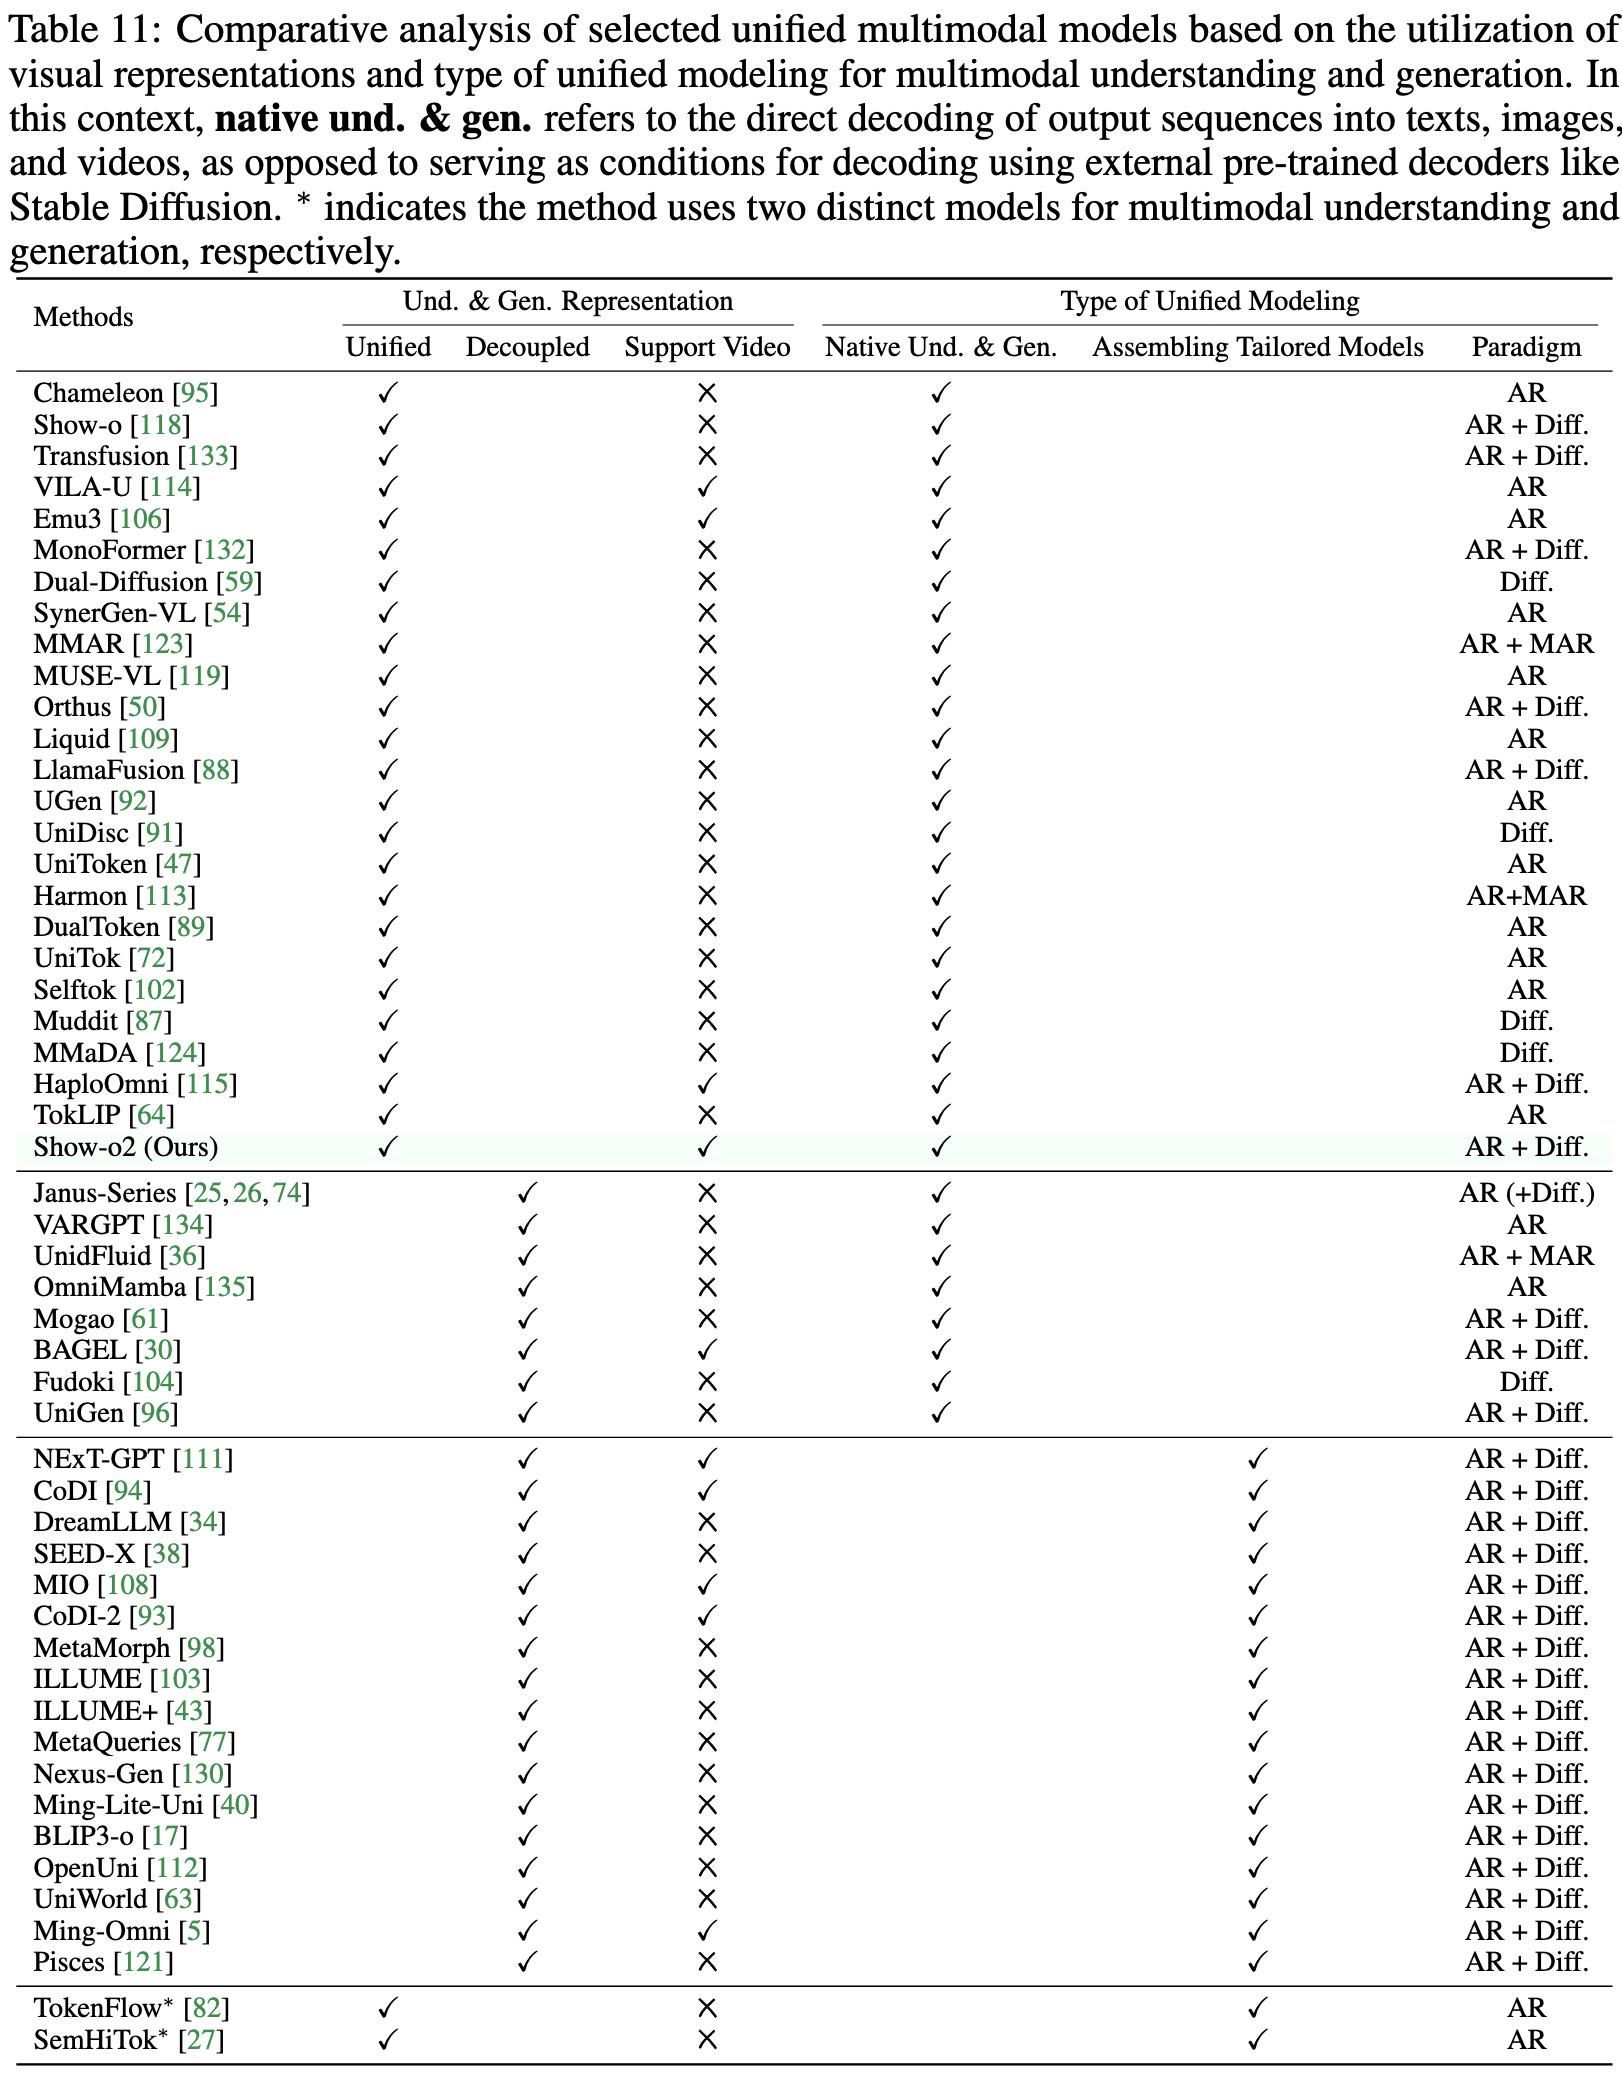
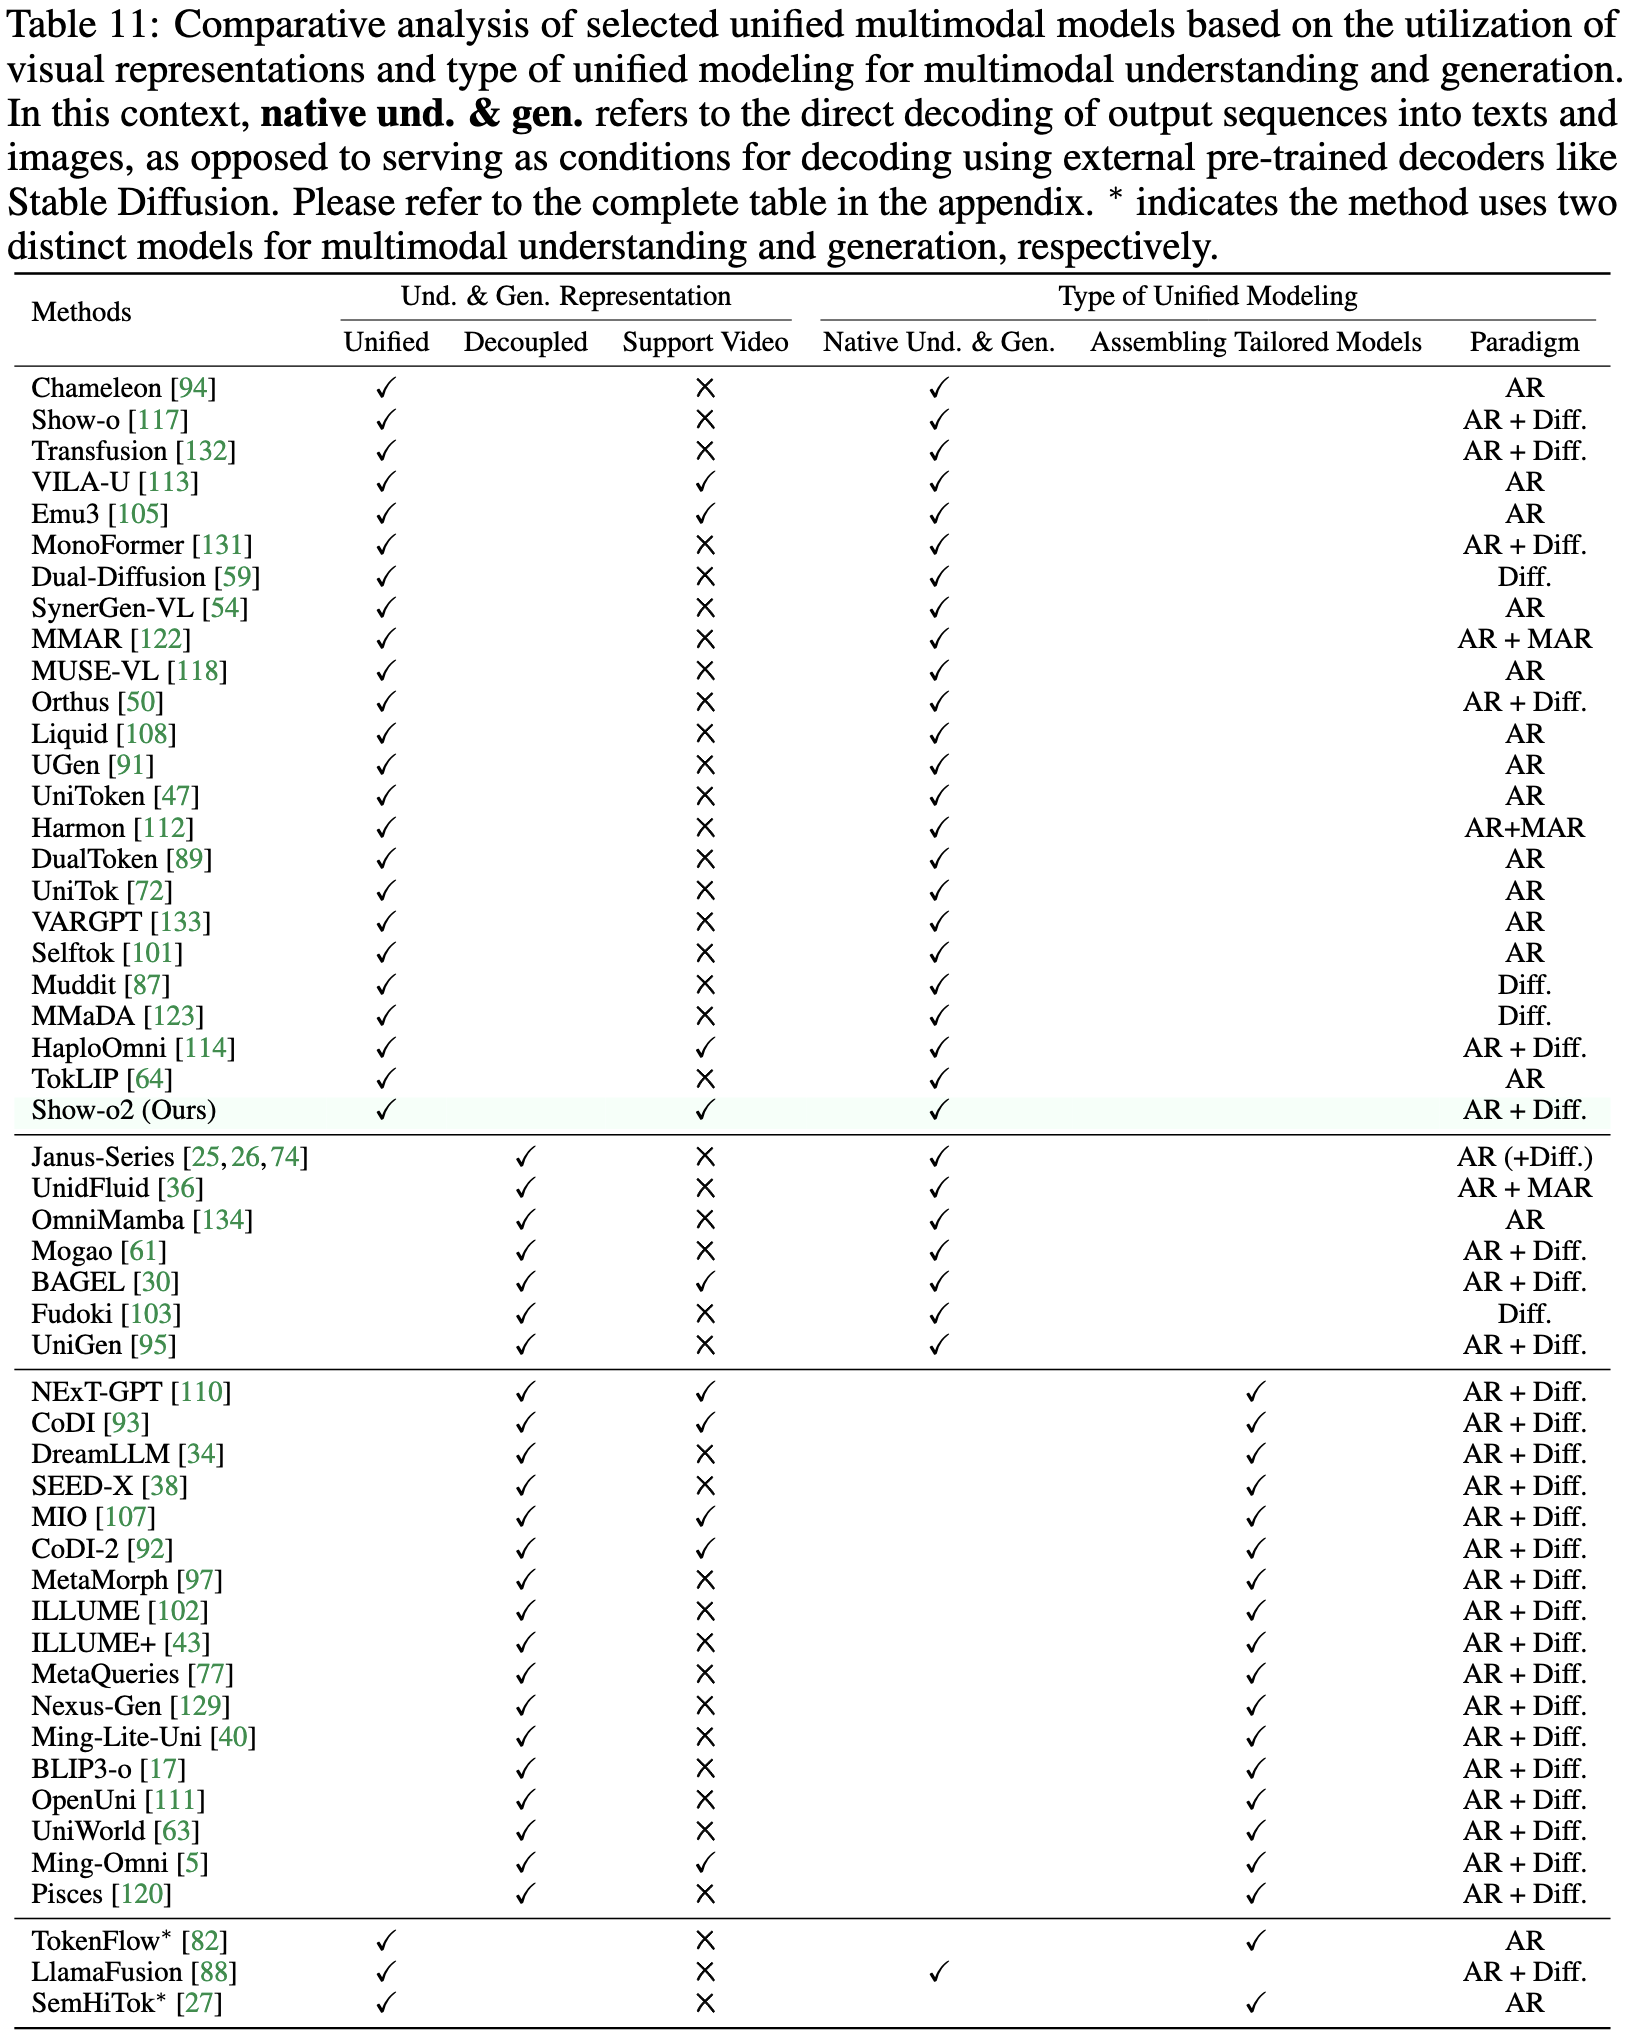
release show-o2 models

Changed region(s): [[0.0, 0.0, 1.0, 1.0], [0.3083, 0.5553, 0.3391, 0.9564]]

diff --git a/README.md b/README.md
@@ -1,6 +1,6 @@
 <div align="center">
 <br>
-<img src="docs/showo_series.png" width="280">
+<img src="docs/showo_title.png" width="200">
 <h3>One Single Transformer to Unify Multimodal Understanding and Generation</h3>
 
 [Jinheng Xie](https://sierkinhane.github.io/)<sup>1&#42;</sup>&nbsp;
@@ -17,12 +17,32 @@ Zhijie Chen<sup>2</sup>&nbsp;
 
 <sup>1</sup> [Show Lab](https://sites.google.com/view/showlab/home?authuser=0), National University of Singapore&nbsp; <sup>2</sup> Bytedance&nbsp;
  
-[![ArXiv](https://img.shields.io/badge/ICLR-<OpenReview>-<COLOR>.svg)](https://openreview.net/pdf?id=o6Ynz6OIQ6) [![ArXiv](https://img.shields.io/badge/Showo-<2408.12528>-<COLOR>.svg)](https://arxiv.org/pdf/2408.12528) [![ArXiv](https://img.shields.io/badge/Showo2-<2506.15564>-<COLOR>.svg)](https://arxiv.org/abs/2506.15564) [![Demo](https://img.shields.io/badge/Demo-HuggingFace-<COLOR>.svg)](https://huggingface.co/spaces/showlab/Show-o) [![slack badge](https://img.shields.io/badge/Discord-join-blueviolet?logo=discord&amp)](https://discord.gg/p6k7XupM) [![WeChat badge](https://img.shields.io/badge/微信-加入-green?logo=wechat&amp)](https://github.com/showlab/Show-o/blob/main/docs/wechat_qa_3.jpg) [![Hits](https://hits.seeyoufarm.com/api/count/incr/badge.svg?url=https%3A%2F%2Fgithub.com%2Fshowlab%2FShow-o&count_bg=%234DC621&title_bg=%23811AD2&icon=&icon_color=%23E7E7E7&title=hits&edge_flat=false)](https://hits.seeyoufarm.com)
-  
+[![ArXiv](https://img.shields.io/badge/ICLR-<OpenReview>-<COLOR>.svg)](https://openreview.net/pdf?id=o6Ynz6OIQ6) [![ArXiv](https://img.shields.io/badge/Arxiv-<2408.12528>-<COLOR>.svg)](https://arxiv.org/pdf/2408.12528) [![Demo](https://img.shields.io/badge/Demo-HuggingFace-<COLOR>.svg)](https://huggingface.co/spaces/showlab/Show-o) [![slack badge](https://img.shields.io/badge/Discord-join-blueviolet?logo=discord&amp)](https://discord.gg/p6k7XupM) [![WeChat badge](https://img.shields.io/badge/微信-加入-green?logo=wechat&amp)](https://github.com/showlab/Show-o/blob/main/docs/wechat_qa_3.jpg) 
 </div>
 
+[//]: # ([![Hits]&#40;https://hits.seeyoufarm.com/api/count/incr/badge.svg?url=https%3A%2F%2Fgithub.com%2Fshowlab%2FShow-o&count_bg=%234DC621&title_bg=%23811AD2&icon=&icon_color=%23E7E7E7&title=hits&edge_flat=false&#41;]&#40;https://hits.seeyoufarm.com&#41;)
+<div align="center">
+<br>
+<img src="show-o2/docs/showo2.png" width="280">
+
+<h3>Improved Unified Multimodal Models</h3>
+
+[Jinheng Xie](https://sierkinhane.github.io/)<sup>1</sup>&nbsp;
+[Zhenheng Yang](https://scholar.google.com/citations?user=Ds5wwRoAAAAJ&hl=en)<sup>2</sup>&nbsp;
+[Mike Zheng Shou](https://sites.google.com/view/showlab)<sup>1</sup> 
+
+<sup>1</sup> [Show Lab](https://sites.google.com/view/showlab/home?authuser=0), National University of Singapore&nbsp; <sup>2</sup> Bytedance&nbsp;
+ 
+[![ArXiv](https://img.shields.io/badge/Arxiv-<2506.15564>-<COLOR>.svg)](https://arxiv.org/abs/2506.15564) [![WeChat badge](https://img.shields.io/badge/微信-加入-green?logo=wechat&amp)](https://github.com/showlab/Show-o/blob/main/docs/wechat_qa_3.jpg) 
+</div>
+
+
 ## News
-* **[2025-06-12]** We release the [**Show-o2**](https://github.com/showlab/Show-o/tree/main/show-o2) models **with 1.5B and 7B LLM parameters** for multimodal understanding and generation.
+* **[2025-06-20]** We are including more concurrent works into our Table 11's comparative analysis. Feel free to reach out to us if we miss your works.
+
+<img src="show-o2/docs/comparative_analysis.png" width="1000">
+
+* **[2025-06-19]** We release the [**Show-o2**](https://github.com/showlab/Show-o/tree/main/show-o2) models **with 1.5B and 7B LLM parameters** for multimodal understanding and generation.
 We perform the unified learning of multimodal understanding and generation on the text token and **3D Causal VAE space**, which is scalable for **text, image, and video modalities**. A dual-path of spatial (-temporal) fusion is proposed to accommodate the distinct feature dependency  of multimodal understanding and generation. We employ specific heads with **autoregressive modeling and flow matching** for the overall unified learning of **multimodal understanding, image/video and mixed-modality generation.**
 <img src="show-o2/docs/overview.png" width="1000">
 <br/>
